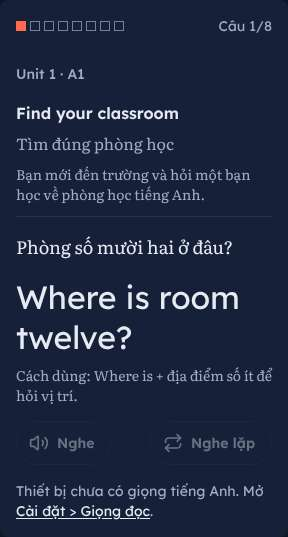
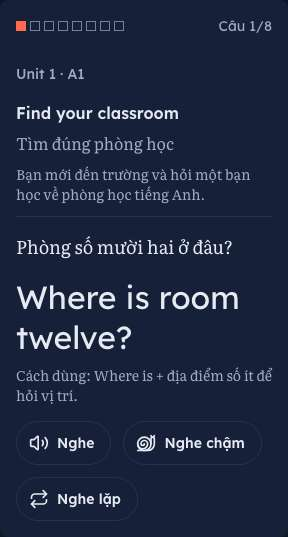
feat(C1-10): nút Nghe chậm đọc từng chữ, nghỉ 0,4 giây giữa hai chữ, tô đúng chữ đang đọc với mọi giọng; spec C1-10, test C1-AC15, ảnh C1-AC16 và C1-AC01 (theo leader: đọc nhanh câu và đọc chậm word by word)

diff --git a/tests/unit/components.test.tsx b/tests/unit/components.test.tsx
@@ -123,6 +123,61 @@ describe('C1 Thẻ câu', () => {
     expect(card(r.container).querySelector('mark')).toBeNull();
   });
 
+  // @ac C1-AC15
+  it('Nghe chậm: đọc lần lượt từng chữ, nghỉ 0,4 giây giữa hai chữ, tô đúng chữ đang đọc; Dừng và Nghe thay lượt đọc chậm', async () => {
+    vi.useFakeTimers({ toFake: ['setTimeout', 'clearTimeout'] });
+    const synth = fakeSpeech([{ lang: 'en-US', voiceURI: 'us', name: 'US' }]);
+    type U = { text: string; onend: (() => void) | null };
+    const said = () => synth.speak.mock.calls.map((c) => (c[0] as U).text);
+    const last = () => synth.speak.mock.calls.at(-1)![0] as U;
+    const sentence = { id: 2, en: "I'd like to book a table for two.", vi: 'Tôi muốn đặt một bàn cho hai người.' };
+    const words = ["I'd", 'like', 'to', 'book', 'a', 'table', 'for', 'two'];
+    const { container } = withProviders(<SentenceCard item={sentence} lang="en" langName="tiếng Anh" />);
+    await act(async () => {
+      await vi.advanceTimersByTimeAsync(0);
+    });
+    const mark = () => card(container).querySelector('[data-testid="source-text"] mark');
+
+    fireEvent.click(screen.getByRole('button', { name: 'Nghe chậm' }));
+    expect(said()).toEqual(["I'd"]);
+    expect(mark()).toHaveTextContent(/^I'd$/);
+    expect(screen.getAllByText('Dừng')).toHaveLength(1);
+    for (let i = 1; i < words.length; i++) {
+      act(() => last().onend?.());
+      // Chưa hết khoảng nghỉ thì chưa đọc chữ sau.
+      act(() => vi.advanceTimersByTime(399));
+      expect(said()).toHaveLength(i);
+      act(() => vi.advanceTimersByTime(1));
+      expect(said().at(-1)).toBe(words[i]);
+      expect(mark()).toHaveTextContent(new RegExp(`^${words[i]}$`));
+    }
+    act(() => last().onend?.());
+    expect(mark()).toBeNull();
+    expect(screen.queryByText('Dừng')).toBeNull();
+    expect(screen.getByRole('button', { name: 'Nghe chậm' })).toBeInTheDocument();
+
+    // Dừng giữa chừng: không đọc chữ tiếp.
+    synth.speak.mockClear();
+    fireEvent.click(screen.getByRole('button', { name: 'Nghe chậm' }));
+    fireEvent.click(screen.getByRole('button', { name: 'Dừng' }));
+    act(() => last().onend?.());
+    act(() => vi.advanceTimersByTime(2000));
+    expect(said()).toEqual(["I'd"]);
+    expect(mark()).toBeNull();
+
+    // Bấm Nghe khi đang đọc chậm: chỉ còn lượt đọc cả câu.
+    synth.speak.mockClear();
+    fireEvent.click(screen.getByRole('button', { name: 'Nghe chậm' }));
+    const slowFirst = last();
+    fireEvent.click(screen.getByRole('button', { name: /^Nghe$/ }));
+    expect(said()).toEqual(["I'd", sentence.en]);
+    act(() => slowFirst.onend?.());
+    act(() => vi.advanceTimersByTime(2000));
+    expect(said()).toHaveLength(2);
+    expect(screen.getAllByText('Dừng')).toHaveLength(1);
+    expect(screen.getByRole('button', { name: 'Nghe chậm' })).toBeInTheDocument();
+  });
+
   // @ac C1-AC06
   it('không có giọng ngôn ngữ đích: nút khóa, có câu thông báo và liên kết mở Giọng đọc', async () => {
     fakeSpeech([{ lang: 'vi-VN', voiceURI: 'vi', name: 'VI' }]);
@@ -143,7 +198,7 @@ describe('C1 Thẻ câu', () => {
     const a = withProviders(<SentenceCard item={plain} lang="en" langName="tiếng Anh" />);
     await act(async () => {});
     const text = 'Thiết bị chưa có giọng tiếng Anh. Mở Cài đặt > Giọng đọc.';
-    const audioRow = () => screen.getByRole('button', { name: /^Nghe$/ }).parentElement;
+    const audioRow = () => screen.getByRole('button', { name: /Nghe lặp/ }).parentElement;
     const pending = noVoiceLine(a.container)!;
     expect(pending).toHaveAttribute('aria-hidden', 'true');
     expect(pending).toHaveClass('invisible');

diff --git a/tests/e2e/evidence-c1.spec.ts b/tests/e2e/evidence-c1.spec.ts
@@ -1,4 +1,4 @@
-// Ảnh và số đo bằng chứng cho C1-AC12 (tô sáng chữ đang đọc, C1-09).
+// Ảnh và số đo bằng chứng cho C1-AC12 (tô sáng chữ đang đọc, C1-09), C1-AC16 (nghe chậm, C1-10) và C1-AC01.
 // Không phải test nghiệm thu; chỉ chạy khi EVIDENCE=1:  npm run evidence  (cần build trước).
 // Giọng đọc giả: trình duyệt trong test không đọc thật, nên báo vị trí chữ bằng tay qua `onboundary` của câu vừa đọc.
 import { expect, test, type Page } from '@playwright/test';
@@ -99,5 +99,50 @@ for (const theme of ['light', 'dark'] as const) {
       out[w] = { cau: before.text, chuDangTo: word, khungTruoc: { w: before.w, h: before.h }, khungSau: { w: after.w, h: after.h }, soKyTuXeDich: moved, lechMoiKyTu: [...new Set(lech.map((d) => `${d.dx},${d.dy}`))], mark };
     }
     writeFileSync(`${OUT}/do-dac-${theme}.json`, JSON.stringify(out, null, 2) + '\n');
+  });
+}
+
+// C1-AC16 (C1-10) và C1-AC01: hàng ba nút nghe; thẻ có dải 8 ô (T1) và không có dải (S3 bước nhớ câu).
+for (const theme of ['light', 'dark'] as const) {
+  test(`C1-10 nghe chậm ${theme}`, async ({ page }) => {
+    await fakeSpeech(page);
+    await seed(page, { 'vitasr2.theme': theme, 'vitasr2.settings': settings() });
+    const out: Record<string, unknown> = {};
+    for (const w of [320, 375, 1280]) {
+      await page.setViewportSize({ width: w, height: w < 768 ? 812 : 800 });
+      await go(page, '/hoc');
+      const card = page.getByTestId('sentence-card');
+      await expect(card).toBeVisible();
+      await page.evaluate(() => document.fonts.ready.then(() => undefined));
+      await animationsDone(page);
+      await page.mouse.move(0, 0);
+      if (w !== 1280) await card.screenshot({ path: `docs/evidence/C1-AC01/d6-${w}-${theme}-co-dai-8-o.jpg`, type: 'jpeg', quality: 60 });
+      await card.getByRole('button', { name: 'Nghe chậm' }).click();
+      await expect(card.locator('mark')).toHaveCount(1);
+      await page.mouse.move(0, 0);
+      mkdirSync('docs/evidence/C1-AC16', { recursive: true });
+      await card.screenshot({ path: `docs/evidence/C1-AC16/${w}-${theme}-nghe-cham.jpg`, type: 'jpeg', quality: 70 });
+      out[w] = await card.evaluate((c) => {
+        const btns = [...c.querySelectorAll('button')].filter((b) => /Dừng|Nghe/.test(b.textContent ?? ''));
+        const cb = c.getBoundingClientRect();
+        return {
+          nut: btns.map((b) => {
+            const r = b.getBoundingClientRect();
+            return { chu: b.textContent?.trim(), cao: Math.round(r.height), trai: Math.round(r.left - cb.left), phai: Math.round(cb.right - r.right), tren: Math.round(r.top - cb.top) };
+          }),
+          tranNgang: c.scrollWidth > c.clientWidth || document.documentElement.scrollWidth > window.innerWidth,
+          chuDangTo: c.querySelector('mark')?.textContent,
+        };
+      });
+      if (w !== 1280) {
+        await go(page, '/hoc');
+        await page.getByRole('button', { name: /^(Học \d câu|Tiếp tục: \d+ câu còn lại)$/ }).click();
+        await page.getByRole('button', { name: 'Nhấn để hiện câu gốc' }).click();
+        await animationsDone(page);
+        await page.mouse.move(0, 0);
+        await page.getByTestId('sentence-card').screenshot({ path: `docs/evidence/C1-AC01/d6-${w}-${theme}-khong-dai.jpg`, type: 'jpeg', quality: 60 });
+      }
+    }
+    writeFileSync(`docs/evidence/C1-AC16/do-dac-${theme}.json`, JSON.stringify(out, null, 2) + '\n');
   });
 }

diff --git a/src/components/learning/sentence-card.tsx b/src/components/learning/sentence-card.tsx
@@ -1,7 +1,7 @@
 'use client';
-// @spec C1-01, C1-02, C1-03, C1-04, C1-05, C1-06, C1-07, C1-08, C1-09
+// @spec C1-01, C1-02, C1-03, C1-04, C1-05, C1-06, C1-07, C1-08, C1-09, C1-10
 import { useEffect, useRef, type KeyboardEvent, type ReactNode } from 'react';
-import { Repeat, Square, Volume2 } from 'lucide-react';
+import { Repeat, Snail, Square, Volume2 } from 'lucide-react';
 import { useTranslations } from 'next-intl';
 import type { Item } from '@/domain';
 import { cn } from '@/lib/utils';
@@ -145,8 +145,11 @@ export function SentenceCard({ item, lang, locale, langName, covered = false, on
           )}
         </div>
       )}
-      <div className="flex justify-between gap-3">
-        <AudioButton locked={audioLocked} active={speaker.playing === 'once'} kind="once" onClick={() => speaker.toggle('once')} />
+      <div className="flex flex-wrap justify-between gap-3">
+        <div className="flex flex-wrap gap-3">
+          <AudioButton locked={audioLocked} active={speaker.playing === 'once'} kind="once" onClick={() => speaker.toggle('once')} />
+          <AudioButton locked={audioLocked} active={speaker.playing === 'slow'} kind="slow" onClick={() => speaker.toggle('slow')} />
+        </div>
         <AudioButton locked={audioLocked} active={speaker.playing === 'loop'} kind="loop" onClick={() => speaker.toggle('loop')} />
       </div>
       {(speaker.noVoice || !speaker.ready) && <NoVoice langName={langName} onOpenVoices={onOpenVoices} pending={!speaker.ready} />}
@@ -154,9 +157,9 @@ export function SentenceCard({ item, lang, locale, langName, covered = false, on
   );
 }
 
-export function AudioButton({ locked, active, kind, onClick, label }: { locked: boolean; active: boolean; kind: 'once' | 'loop'; onClick: () => void; label?: string }) {
+export function AudioButton({ locked, active, kind, onClick, label }: { locked: boolean; active: boolean; kind: 'once' | 'loop' | 'slow'; onClick: () => void; label?: string }) {
   const t = useTranslations('card');
-  const Icon = active ? Square : kind === 'once' ? Volume2 : Repeat;
+  const Icon = active ? Square : kind === 'once' ? Volume2 : kind === 'slow' ? Snail : Repeat;
   return (
     <button
       type="button"
@@ -169,7 +172,7 @@ export function AudioButton({ locked, active, kind, onClick, label }: { locked: 
       }}
     >
       <Icon className="size-5" aria-hidden />
-      <span>{active ? t('stop') : kind === 'once' ? t('listen') : t('listenLoop')}</span>
+      <span>{active ? t('stop') : kind === 'once' ? t('listen') : kind === 'slow' ? t('listenSlow') : t('listenLoop')}</span>
     </button>
   );
 }

diff --git a/src/components/learning/use-speaker.ts b/src/components/learning/use-speaker.ts
@@ -1,10 +1,13 @@
 'use client';
-// @spec C1-04, C1-05, C1-09
+// @spec C1-04, C1-05, C1-09, C1-10
 import { useCallback, useEffect, useRef, useState } from 'react';
-import { speak, stopSpeaking, voicesFor } from '@/lib/speech';
+import { speak, stopSpeaking, voicesFor, wordSlots } from '@/lib/speech';
 import { useLearning } from '@/providers/learning-provider';
 
-export type Playing = 'idle' | 'once' | 'loop';
+export type Playing = 'idle' | 'once' | 'loop' | 'slow';
+
+/** C1-10: nghỉ giữa hai chữ khi Nghe chậm. */
+export const SLOW_GAP_MS = 400;
 
 /** Đọc câu gốc bằng giọng và tốc độ đã chọn. Đổi câu hoặc rời màn thì dừng ngay. */
 export function useSpeaker(text: string, lang: string, locale?: string) {
@@ -62,7 +65,29 @@ export function useSpeaker(text: string, lang: string, locale?: string) {
           }
         },
       });
-    if (!once()) stop();
+    // C1-10: Nghe chậm đọc từng chữ một lượt riêng; chữ đang đọc là chữ vừa gửi đi nên luôn tô đúng.
+    const slow = (i: number): boolean => {
+      const w = slots[i];
+      setWord([w.start, w.end]);
+      return speak({
+        text: text.slice(w.start, w.end),
+        lang,
+        locale,
+        voiceURI: settings.voiceByLang[lang],
+        rate: settings.rate,
+        onEnd: () => {
+          if (g !== gen.current) return;
+          if (i + 1 < slots.length) timer.current = window.setTimeout(() => slow(i + 1), SLOW_GAP_MS);
+          else {
+            mode.current = 'idle';
+            setPlaying('idle');
+            setWord(null);
+          }
+        },
+      });
+    };
+    const slots = m === 'slow' ? wordSlots(text, lang) : [];
+    if (m === 'slow' ? slots.length === 0 || !slow(0) : !once()) stop();
   };
 
   return {

diff --git a/docs/spec/C1-the-cau/acceptance.md b/docs/spec/C1-the-cau/acceptance.md
@@ -1,7 +1,7 @@
 # Acceptance: C1 Thẻ câu
 
 - [x] C1-AC01 [claude] C1-01: Ảnh chụp thẻ có và không có dải 8 ô, ở 320 px và 375 px, sáng và tối: thứ tự khối đúng như bố cục; font nghĩa và câu gốc đúng vai trò.
-  - Bằng chứng: ảnh docs/evidence/C1-AC01/ (thẻ ở 320 và 375 px, sáng và tối, có và không có dải 8 ô): thứ tự dải 8 ô và "Câu 1/8", nghĩa, câu gốc, Cách dùng, hàng Nghe và Nghe lặp; nghĩa Literata, câu gốc Lexend; người kiểm độc lập xem từng ảnh, Claude, 2026-10-21, commit d720f7d
+  - Bằng chứng: ảnh docs/evidence/C1-AC01/ chụp lại sau C1-10 (thẻ T1 có dải 8 ô và thẻ S3 không có dải, 320 và 375 px, sáng và tối): thứ tự dải 8 ô và "Câu 1/8", nghĩa, câu gốc, Cách dùng, hàng "Nghe", "Nghe chậm", "Nghe lặp" ("Nghe lặp" xuống dòng ở màn hẹp); nghĩa Literata, câu gốc Lexend; Claude xem từng ảnh, 2026-10-21, nhánh feature/doc-nhanh-doc-cham (cùng commit với thay đổi)
 - [x] C1-AC02 [auto] C1-02: Ở chế độ che, nút Nghe bị disabled; chạm khối che, rồi lặp lại bằng phím Space và Enter khi thẻ có focus: câu gốc hiện và sự kiện "đã hiện" phát đúng một lần.
   - Bằng chứng: test tests/unit/components.test.tsx pass trên bản Next.js (npm test), Claude, 2026-10-21, commit d720f7d
 - [x] C1-AC03 [auto] C1-03: Sau khi hiện, không phần tử nào trong thẻ khiến câu gốc bị che lại.
@@ -26,3 +26,8 @@
 - [ ] C1-AC13 [human] C1-09: Trên Chrome, Edge và Safari thật, giọng tiếng Anh "Tự động": bấm Nghe thì chữ được tô chạy theo giọng đọc (Safari và giọng trên máy khớp từng chữ; giọng Google trên Chrome gần đúng, lệch không quá khoảng một chữ sau lần đọc đầu).
 - [x] C1-AC14 [auto] C1-09: Với `speechSynthesis` giả không báo `boundary`: sau khi giọng bắt đầu phát, `mark` đi lần lượt qua các chữ của câu theo đúng thứ tự, chữ dài giữ lâu hơn chữ ngắn, tốc độ 2x thì xong nhanh gấp đôi; đọc xong không còn `mark`; đọc hết một lượt dài hơn ước lượng thì lượt sau ước lượng dài hơn; trong lúc ước lượng mà trình duyệt báo `boundary` thật thì `mark` theo vị trí thật.
   - Bằng chứng: test tests/unit/speech.test.ts pass (npm test), Claude, 2026-10-21, commit 35b40d9
+- [x] C1-AC15 [auto] C1-10: Với `speechSynthesis` giả: bấm "Nghe chậm" với câu "I'd like to book a table for two.": `speak` được gọi lần lượt với "I'd", "like", …, "two" (mỗi chữ chỉ sau khi chữ trước đọc xong và nghỉ 0,4 giây); `mark` luôn là chữ vừa đọc; nút thành "Dừng"; đọc xong chữ cuối thì không còn `mark` và nút về "Nghe chậm"; bấm "Dừng" giữa chừng thì không đọc chữ tiếp; bấm "Nghe" khi đang đọc chậm thì chỉ còn lượt đọc cả câu.
+  - Bằng chứng: test tests/unit/components.test.tsx pass (npm test), Claude, 2026-10-21, nhánh feature/doc-nhanh-doc-cham (cùng commit với thay đổi)
+- [x] C1-AC16 [claude] C1-01, C1-10: Ảnh chụp thẻ đang "Nghe chậm" ở 320 px, 375 px và 1280 px, sáng và tối: hàng có "Dừng", "Nghe lặp" (và "Nghe" khi không đọc), không tràn ngang, vùng chạm mỗi nút cao từ 44 px, chữ đang đọc được tô.
+  - Bằng chứng: ảnh và số đo docs/evidence/C1-AC16/ (thẻ T1 đang Nghe chậm chữ "Where", 320, 375 và 1280 px, sáng và tối): hàng "Nghe", "Dừng", "Nghe lặp", ở 320 và 375 px "Nghe lặp" xuống dòng, ở 1280 px cùng một hàng; không tràn ngang; mỗi nút cao 44 px; chữ đang đọc được tô nền và gạch chân; Claude xem từng ảnh, 2026-10-21, nhánh feature/doc-nhanh-doc-cham (cùng commit với thay đổi)
+- [ ] C1-AC17 [human] C1-10: Trên Chrome (giọng Google), Safari và điện thoại thật: "Nghe chậm" đọc rõ từng chữ, nghỉ đều, chữ được tô đúng chữ đang đọc; người học thấy dễ theo hơn "Nghe".
